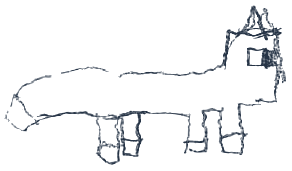
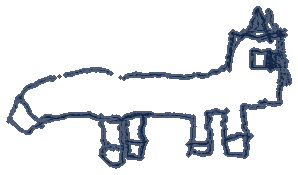
Dessins des enfants plus marqués et encadrés ; livret : surlignage plein, titre sur aplat blanc, chapitres centrés

Changed region(s): [[0.0, 0.0292, 0.9863, 0.9649]]

diff --git a/index.html b/index.html
@@ -3,7 +3,6 @@
 <head>
 <meta charset="utf-8">
 <link rel="icon" type="image/png" sizes="48x48" href="images/favicon-48.png"><link rel="icon" type="image/png" sizes="180x180" href="images/favicon.png"><link rel="apple-touch-icon" href="images/favicon.png">
-
 <meta name="robots" content="noindex, nofollow, noarchive">
 <meta content="width=device-width, initial-scale=1" name="viewport">
 <title>Le fermier au chapeau de paille</title>
@@ -179,10 +178,11 @@ tw-passage:has(.garde) { max-width: none; width: 100%; margin: 0; }
 .contexte .lien-retour { text-align: left; }
 .contexte h1 span { background: linear-gradient(transparent 62%, var(--paille) 62% 92%, transparent 92%); }
 .contexte-texte { max-width: 38em; margin: 0 auto; }
-.portraits { display: flex; justify-content: center; align-items: flex-end; gap: 3em; margin: 0.5em 0 0.6em; }
-.portraits figure { margin: 0; }
-.portraits img { display: block; height: 9em; width: auto; margin: 0 auto; }
-.portraits figure:nth-child(2) img { height: 5em; }  /* Gertrude est plus petite que Kévine */
+.portraits { display: flex; justify-content: center; align-items: flex-end; flex-wrap: wrap; gap: 1.5em 3em; margin: 0.8em 0 1.4em; }
+/* Chaque dessin des enfants posé sur une carte encadrée comme l'encadré du dé, pour qu'il ressorte */
+.portraits figure { margin: 0; background: var(--nuit-clair); border: 3px solid var(--nuit); box-shadow: 5px 5px 0 var(--paille); padding: 0.9em 1.2em 0.6em; }
+.portraits img { display: block; height: 11em; width: auto; margin: 0 auto; }
+.portraits figure:nth-child(2) img { height: 6.5em; }  /* Gertrude est plus petite que Kévine */
 .portraits figcaption { font-family: "Chiffres pixel", "Pixelify Sans", monospace; font-weight: 600; color: var(--nuit); margin-top: 0.3em; }
 .citation { max-width: 30em; margin: 1.8em auto; font-family: "Chiffres pixel", "Pixelify Sans", monospace; font-weight: 600; font-size: 1.4em; line-height: 1.35; color: var(--nuit); }
 .citation .source { display: block; margin-top: 0.5em; font-family: "Source Serif 4", serif; font-weight: 400; font-style: italic; font-size: 0.6em; color: #5c6670; }

diff --git a/source/construire_livret.py b/source/construire_livret.py
@@ -57,7 +57,10 @@ def police(nom, fichier, poids="400 800", italique=False, plage=""):
 
 
 TITRE_POLICE = '"Chiffres", "Pixelify Sans", monospace'
-SURLIGNE = f"background: linear-gradient(transparent 62%, {PAILLE} 62% 92%, transparent 92%);"
+# Surlignage jaune en couleur pleine : un soulignement épais passé sous le bas des lettres. Pas de dégradé :
+# certaines visionneuses de PDF le rendent en noir.
+SURLIGNE = (f"text-decoration: underline {PAILLE}; text-decoration-thickness: 0.3em; text-underline-offset: -0.12em; "
+            "text-decoration-skip-ink: none;")
 
 CSS = "\n".join([police("Pixelify Sans", "PixelifySans.woff2"),
                  police("Chiffres", "ChiffresBricolage.woff2", plage=" unicode-range: U+30-39;"),
@@ -87,10 +90,11 @@ p {{ margin: 0 0 0.55em; orphans: 2; widows: 2; }}
 .couverture {{ page: plein; position: relative; height: 185.5mm; overflow: hidden; }}
 .couverture img {{ position: absolute; inset: 0; width: 100%; height: 100%; object-fit: cover; }}
 .couverture .titre {{ position: absolute; left: 14mm; right: 14mm; top: 17mm; text-align: center; }}
-/* Le titre est posé sur une nébuleuse blanche peinte dans l'image (images/livret/couverture-nebuleuse.jpg) */
+/* Titre sur l'image, chaque ligne sur un surlignage blanc en aplat (Manon : pas de halo) */
+.couverture .surtitre, .couverture .noms {{ display: inline; background: #fff; padding: 0.4mm 2mm; box-decoration-break: clone; -webkit-box-decoration-break: clone; }}
 .couverture .surtitre {{ font-size: 8.5pt; font-style: italic; color: {NUIT}; }}
 .couverture h1 {{ margin: 3mm 0 2mm; font-family: {TITRE_POLICE}; font-weight: 600; font-size: 25pt; line-height: 1.22; }}
-.couverture h1 span {{ {SURLIGNE} color: {ENCRE}; box-decoration-break: clone; -webkit-box-decoration-break: clone; }}
+.couverture h1 span {{ background: #fff; color: {ENCRE}; padding: 0 2.2mm; box-decoration-break: clone; -webkit-box-decoration-break: clone; }}
 .couverture .noms {{ font-style: italic; font-size: 12.5pt; color: {NUIT}; }}
 .couverture .mention {{ position: absolute; left: 10mm; right: 10mm; bottom: 4.5mm; text-align: center; font-size: 6.5pt;
   font-style: italic; color: #fff; text-shadow: 0 1px 2px rgba(0, 0, 0, 0.9); }}
@@ -105,7 +109,7 @@ p {{ margin: 0 0 0.55em; orphans: 2; widows: 2; }}
 /* Chapitres */
 /* En tête de chaque chapitre, l'image carrée entière, un peu moins large que le texte */
 .carre {{ display: block; width: 66mm; height: 66mm; margin: 0 auto 4.5mm; border: 0.8mm solid {NUIT}; box-shadow: 1.3mm 1.3mm 0 {PAILLE}; }}
-.ouverture {{ margin: 0 0 4mm; }}
+.ouverture {{ margin: 0 0 4mm; text-align: center; }}
 .numero {{ display: inline-block; font-family: {TITRE_POLICE}; font-weight: 600; font-size: 10pt; color: #fff;
   background: {CIEL}; padding: 0.4mm 2.4mm 0.2mm; border-radius: 1mm; }}
 h2 {{ font-family: {TITRE_POLICE}; font-weight: 600; font-size: 18pt; line-height: 1.2; margin: 2mm 0 0; }}
@@ -165,9 +169,11 @@ h2 span {{ {SURLIGNE} box-decoration-break: clone; -webkit-box-decoration-break:
 .contexte h3 {{ font-family: {TITRE_POLICE}; font-weight: 600; font-size: 15pt; line-height: 1.25; margin: 2mm 0 1mm; }}
 .contexte h3 span {{ {SURLIGNE} }}
 .contexte p {{ font-size: 11pt; }}
-.portraits {{ display: flex; justify-content: center; align-items: flex-end; gap: 8mm; }}
-.portraits img {{ height: 24mm; width: auto; }}
-.portraits img.petit {{ height: 13mm; }}
+.portraits {{ display: flex; justify-content: center; align-items: flex-end; gap: 7mm; margin-bottom: 4mm; }}
+/* Chaque dessin sur une carte bleu clair encadrée de bleu nuit, ombre jaune, pour qu'il ressorte */
+.portraits span {{ display: block; background: #eef8ff; border: 0.8mm solid #14507f; box-shadow: 1.3mm 1.3mm 0 #f7c531; padding: 2.5mm 3mm; }}
+.portraits img {{ display: block; height: 30mm; width: auto; }}
+.portraits img.petit {{ height: 16mm; }}
 .citation {{ font-family: {TITRE_POLICE}; font-weight: 600; font-size: 12pt; line-height: 1.35; color: {NUIT}; margin: 3mm 4mm; }}
 .citation span {{ display: block; font-family: "Source Serif 4"; font-weight: 400; font-style: italic; font-size: 9pt; color: {GRIS}; margin-top: 1mm; }}
 
@@ -269,7 +275,7 @@ def qr_code():
 
 def document(pages, complements=0):
     couverture = (
-        f'<section class="couverture"><img src="{uri(RACINE / "images" / "livret" / "couverture-nebuleuse.jpg")}" alt="">'
+        f'<section class="couverture"><img src="{uri(RACINE / "images" / "livret" / "couverture.jpg")}" alt="">'
         '<div class="titre"><span class="surtitre">Une histoire dont le lecteur est le héros</span>'
         f'<h1><span>{e(TITRE)}</span></h1><div class="noms">{e(AUTEURS)}</div></div>'
         f'<div class="mention">{e(AVERTISSEMENT_COURT)}</div></section>'
@@ -282,7 +288,7 @@ def document(pages, complements=0):
     dessins = RACINE / "images" / "dessins"
     contexte = (
         '<section class="page-seule contexte"><div class="portraits">'
-        f'<img src="{uri(dessins / "kevine.png")}" alt=""><img class="petit" src="{uri(dessins / "gertrude.png")}" alt=""></div>'
+        f'<span><img src="{uri(dessins / "kevine.png")}" alt=""></span><span><img class="petit" src="{uri(dessins / "gertrude.png")}" alt=""></span></div>'
         f'<h3><span>Comment est née cette histoire</span></h3>{separateur("flamme")}'
         + "".join(paragraphes[:4])
         + f'<div class="citation">« {e(CITATION)} »<span>Antoine et Émile, sur leur fiche récit</span></div>'

diff --git a/source/construire_site.py b/source/construire_site.py
@@ -228,10 +228,11 @@ tw-passage:has(.garde) { max-width: none; width: 100%; margin: 0; }
 .contexte .lien-retour { text-align: left; }
 .contexte h1 span { background: linear-gradient(transparent 62%, var(--paille) 62% 92%, transparent 92%); }
 .contexte-texte { max-width: 38em; margin: 0 auto; }
-.portraits { display: flex; justify-content: center; align-items: flex-end; gap: 3em; margin: 0.5em 0 0.6em; }
-.portraits figure { margin: 0; }
-.portraits img { display: block; height: 9em; width: auto; margin: 0 auto; }
-.portraits figure:nth-child(2) img { height: 5em; }  /* Gertrude est plus petite que Kévine */
+.portraits { display: flex; justify-content: center; align-items: flex-end; flex-wrap: wrap; gap: 1.5em 3em; margin: 0.8em 0 1.4em; }
+/* Chaque dessin des enfants posé sur une carte encadrée comme l'encadré du dé, pour qu'il ressorte */
+.portraits figure { margin: 0; background: var(--nuit-clair); border: 3px solid var(--nuit); box-shadow: 5px 5px 0 var(--paille); padding: 0.9em 1.2em 0.6em; }
+.portraits img { display: block; height: 11em; width: auto; margin: 0 auto; }
+.portraits figure:nth-child(2) img { height: 6.5em; }  /* Gertrude est plus petite que Kévine */
 .portraits figcaption { font-family: "Chiffres pixel", "Pixelify Sans", monospace; font-weight: 600; color: var(--nuit); margin-top: 0.3em; }
 .citation { max-width: 30em; margin: 1.8em auto; font-family: "Chiffres pixel", "Pixelify Sans", monospace; font-weight: 600; font-size: 1.4em; line-height: 1.35; color: var(--nuit); }
 .citation .source { display: block; margin-top: 0.5em; font-family: "Source Serif 4", serif; font-weight: 400; font-style: italic; font-size: 0.6em; color: #5c6670; }
